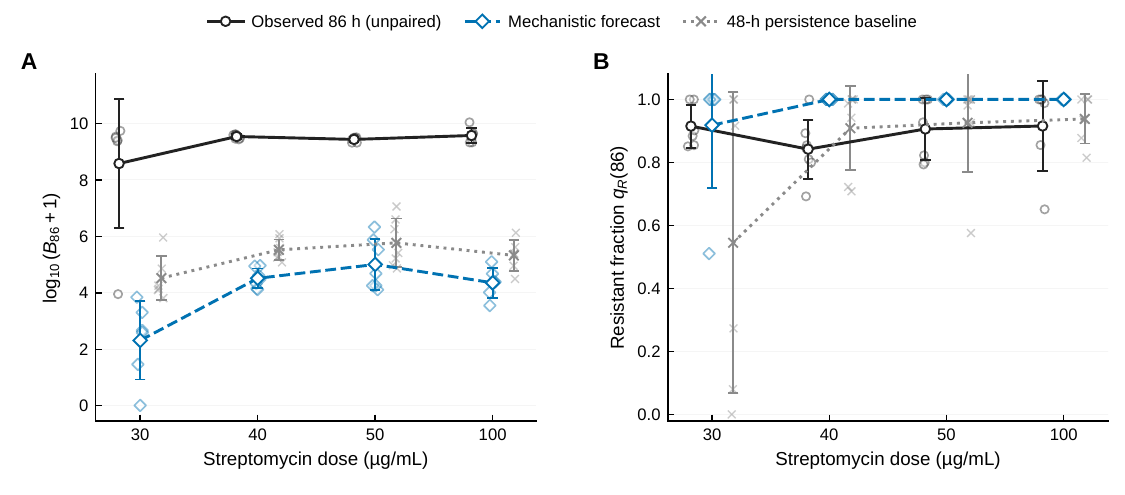
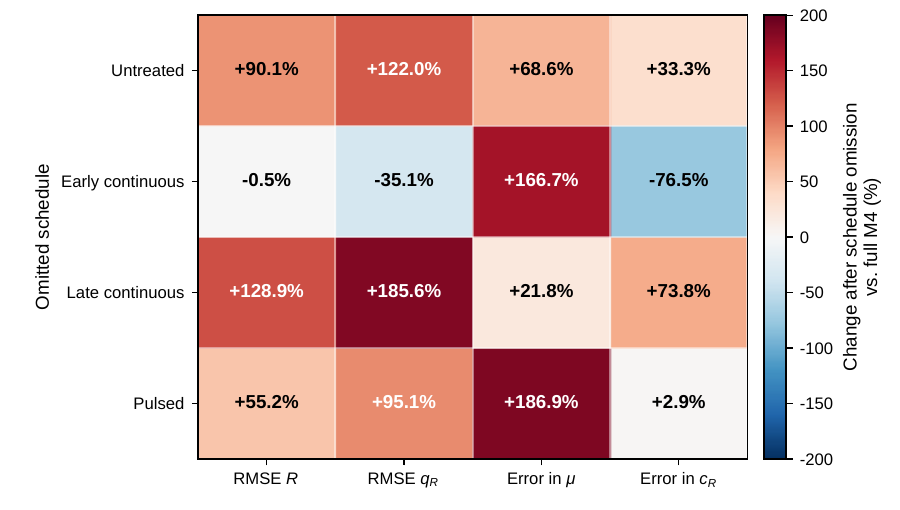
Renumber figures to match manuscript: leave-one-schedule-out heatmap is Fig 9, 86-h endpoint validation is Fig 10
Scripts, output numbers, previews, make_all_figures order and README tables updated.

Claude-Session: https://claude.ai/code/session_014MasGwDZssCAnq1A1dUmfa

diff --git a/figures/Fig9_leave_one_schedule_out.py b/figures/Fig9_leave_one_schedule_out.py
@@ -1,5 +1,5 @@
 """
-Fig 10 -- Schedule-specific information from leave-one-schedule-out refits
+Fig 9 -- Schedule-specific information from leave-one-schedule-out refits
 (paired % change relative to the full M4 design).
 Source: Round 4, Cell 23C. No training; recomputes the paired changes from the
 saved leave-one-schedule-out metrics exactly as Cell 23C does
@@ -45,7 +45,7 @@ if CSV.exists():
     matrix = (paired.groupby("omitted")[[f"{m}_chg" for m in METRICS]].mean()
               .reindex(ROW_ORDER).to_numpy(float))
 else:
-    print(f"Fig10: {CSV.name} not found -- drawing the values reported in the manuscript.")
+    print(f"Fig9: {CSV.name} not found -- drawing the values reported in the manuscript.")
     matrix = PUBLISHED
 
 LIMIT = 200.0
@@ -67,4 +67,4 @@ cbar = fig.colorbar(image, ax=ax, pad=0.025, ticks=np.arange(-200, 201, 50))
 cbar.set_label("Change after schedule omission\nvs. full M4 (%)")
 cbar.ax.tick_params(labelsize=ps.FS_TICK)
 fig.subplots_adjust(left=0.22, right=0.96, top=0.97, bottom=0.10)
-ps.save_plos(fig, 10)
+ps.save_plos(fig, 9)

diff --git a/figures/Fig10_independent_86h_validation.py b/figures/Fig10_independent_86h_validation.py
@@ -1,5 +1,5 @@
 """
-Fig 9 -- Independent validation at the unpaired treated 86-h endpoint.
+Fig 10 -- Independent validation at the unpaired treated 86-h endpoint.
 Source: real-data notebook, "cell 12 figures" (R3.10, Figure C). No training.
 
 Inputs
@@ -107,4 +107,4 @@ fig.legend(handles=[
     loc="upper center", bbox_to_anchor=(0.5, 1.0), ncol=3, frameon=False, handlelength=2.1,
     columnspacing=1.4, handletextpad=0.5)
 fig.subplots_adjust(left=0.085, right=0.985, bottom=0.15, top=0.85, wspace=0.30)
-ps.save_plos(fig, 9)
+ps.save_plos(fig, 10)

diff --git a/figures/make_all_figures.py b/figures/make_all_figures.py
@@ -24,8 +24,8 @@ SCRIPTS = [
     "Fig6_observation_regimes.py",
     "Fig7_profile_surfaces.py",
     "Fig8_parameter_recovery.py",
-    "Fig9_independent_86h_validation.py",
-    "Fig10_leave_one_schedule_out.py",
+    "Fig9_leave_one_schedule_out.py",
+    "Fig10_independent_86h_validation.py",
 ]
 
 failed = []

diff --git a/README.md b/README.md
@@ -48,11 +48,11 @@ Previews of the article figures, redrawn by `figures/make_all_figures.py` from t
 
 [![Fig 8](figures/preview/Fig8.png)](figures/preview/Fig8.png)
 
-**Fig 9.** Independent validation at the unpaired treated 86-h endpoint.
+**Fig 9.** Schedule-specific information from leave-one-schedule-out refits.
 
 [![Fig 9](figures/preview/Fig9.png)](figures/preview/Fig9.png)
 
-**Fig 10.** Schedule-specific information from leave-one-schedule-out refits.
+**Fig 10.** Independent validation at the unpaired treated 86-h endpoint.
 
 [![Fig 10](figures/preview/Fig10.png)](figures/preview/Fig10.png)
 
@@ -69,7 +69,7 @@ AMR-EcoEvo-PINN/
 │                                       independent 86-h endpoint validation
 ├── figures/                            stand-alone scripts that redraw Fig 1-10 at PLOS size
 │   ├── plos_style.py                   shared sizes, fonts (Arial, 8-11 pt) and output paths
-│   ├── Fig1_framework_overview.py ... Fig10_leave_one_schedule_out.py
+│   ├── Fig1_framework_overview.py ... Fig10_independent_86h_validation.py
 │   ├── make_all_figures.py
 │   ├── preview/                        PNG previews of Fig 1-10 (shown above)
 │   └── output/                         FigN.pdf (for LaTeX) and FigN.tif (for PLOS)
@@ -152,8 +152,8 @@ Each figure is written to `figures/output/` as a vector PDF and as a 600-dpi RGB
 | Fig 6 | 01 · Round 3 Cells 18-19 | `Fig6_observation_regimes.py` | `round3/final/tables/round3_observation_regime_all_seeds_metrics.csv` |
 | Fig 7 | 01 · Round 4 Cell 24 | `Fig7_profile_surfaces.py` | `round4_profile_surfaces_M1_M4.csv` |
 | Fig 8 | 01 · Round 4 Cell 19 | `Fig8_parameter_recovery.py` | `round4_primary_multischedule_all_seeds_metrics.csv` |
-| Fig 9 | 02 · Cell 12 | `Fig9_independent_86h_validation.py` | `final_R310_*_population_forecasts_from_48h.csv` |
-| Fig 10 | 01 · Round 4 Cells 23-23C | `Fig10_leave_one_schedule_out.py` | `round4_leave_one_schedule_out_metrics.csv` |
+| Fig 9 | 01 · Round 4 Cells 23-23C | `Fig9_leave_one_schedule_out.py` | `round4_leave_one_schedule_out_metrics.csv` |
+| Fig 10 | 02 · Cell 12 | `Fig10_independent_86h_validation.py` | `final_R310_*_population_forecasts_from_48h.csv` |
 | Table 1 | 01 · Round 3 Cell 16 | n/a | `round3/final/tables` |
 | Table 2 | 01 · Round 4 Cells 18-19 | n/a | `round4/final/tables` |
 | Tables 3-5 | 02 · Cells 9, 10, 12 | n/a | `real_data/tables` |

diff --git a/figures/README.md b/figures/README.md
@@ -19,5 +19,5 @@ Output goes to `figures/output/`. Input paths are set in `plos_style.py` (SECTIO
 | `Fig6_observation_regimes.py` | Effect of phenotype-observation richness |
 | `Fig7_profile_surfaces.py` | Observation-objective geometry in the (μ, c_R) plane |
 | `Fig8_parameter_recovery.py` | Recovery of shared evolutionary parameters |
-| `Fig9_independent_86h_validation.py` | Independent validation at the 86-h endpoint |
-| `Fig10_leave_one_schedule_out.py` | Leave-one-schedule-out refits |
+| `Fig9_leave_one_schedule_out.py` | Leave-one-schedule-out refits |
+| `Fig10_independent_86h_validation.py` | Independent validation at the 86-h endpoint |
